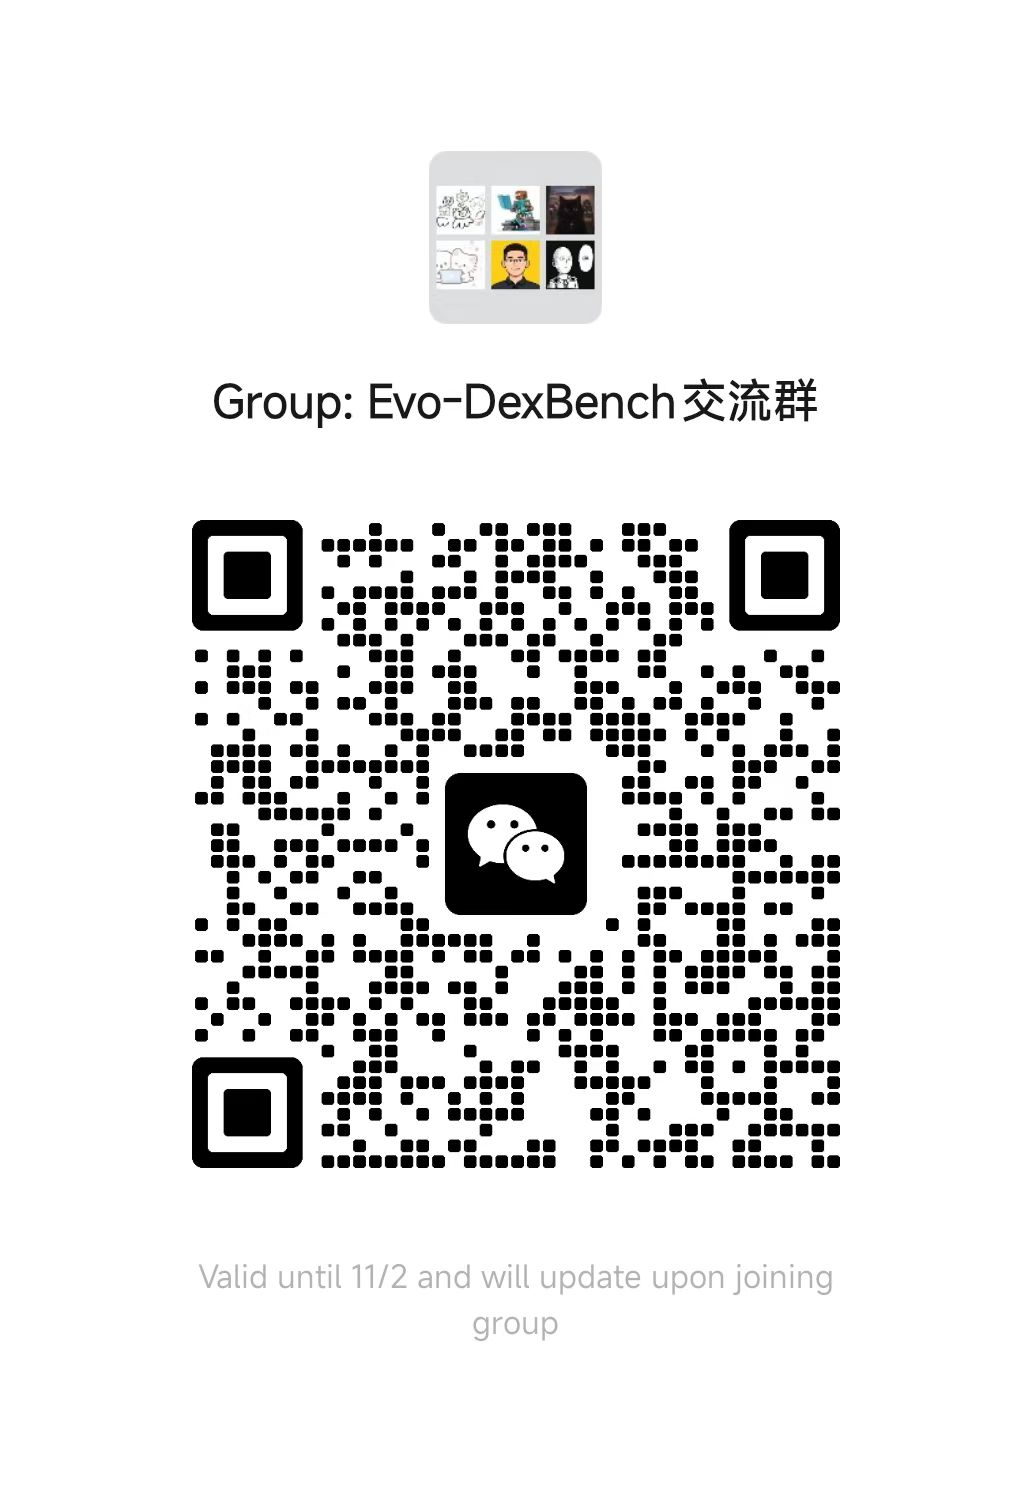
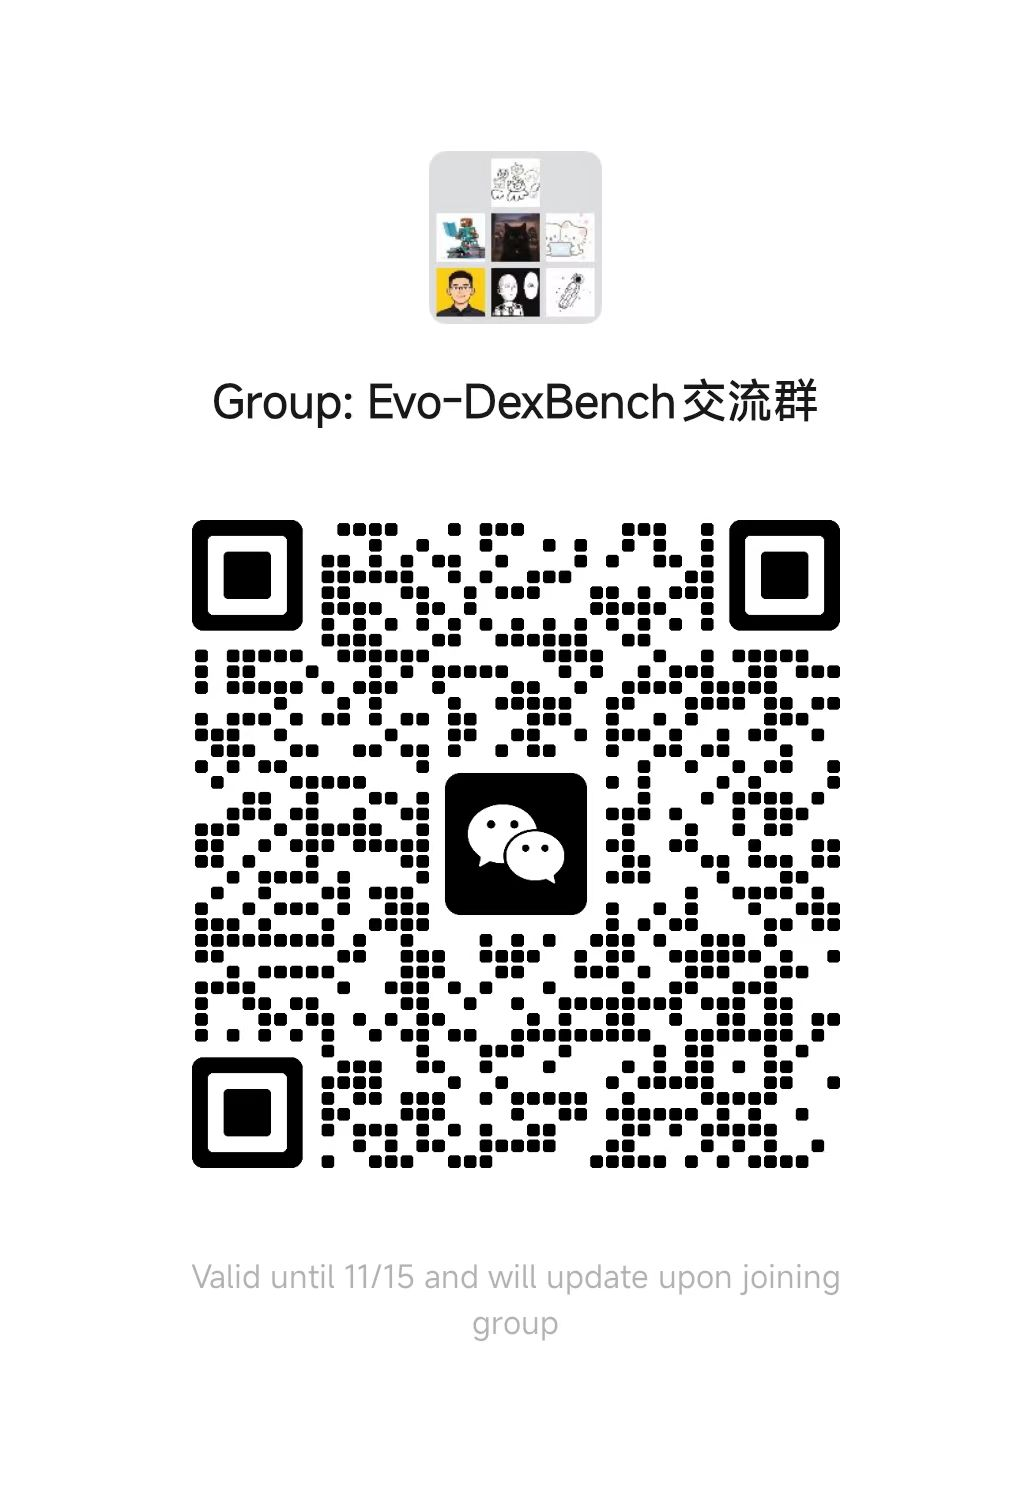
docs: add release updates and refresh WeChat QR code

Changed region(s): [[0.1862, 0.3385, 0.838, 0.8], [0.4035, 0.0923, 0.5897, 0.2154], [0.1862, 0.8308, 0.807, 0.8615]]

diff --git a/README.md b/README.md
@@ -7,11 +7,18 @@
 [![Model Integration Examples](https://img.shields.io/badge/🤗_Model_Integration_Examples-Hugging_Face-yellow)](https://huggingface.co/MINT-SJTU/Evo-DexBench_model_access_example)
 [![License](https://img.shields.io/badge/License-Apache_2.0-blue)](LICENSE)
 
+## 📢 Updates
+
+- **2026-11-08:** Added [π0.5 training and evaluation examples](examples/policies/pi05/README.md).
+- **2026-10-30:** Added [DP-C and DP-T training and evaluation examples](examples/policies/diffusion_policy/README.md).
+- **2026-10-27:** Added [exact replay across supported Intel and AMD CPU configurations](docs/guides/exact-replay.md).
+- **2026-10-12:** Released our dexterous manipulation benchmark project, including simulation tasks, teleoperation, data tools, and [evaluation](docs/guides/evaluation.md).
+
+## ✨ Overview
+
 **Evo-DexBench** is a dexterous manipulation benchmark built on ManiSkill 3,
 with visual, proprioceptive, and tactile observations for single-hand and
 bimanual manipulation.
-
-## ✨ Overview
 
 - **30 tasks** across six affordance families, with three layouts per task.
 - **Standard evaluation** with spatial, camera, lighting, and physical
